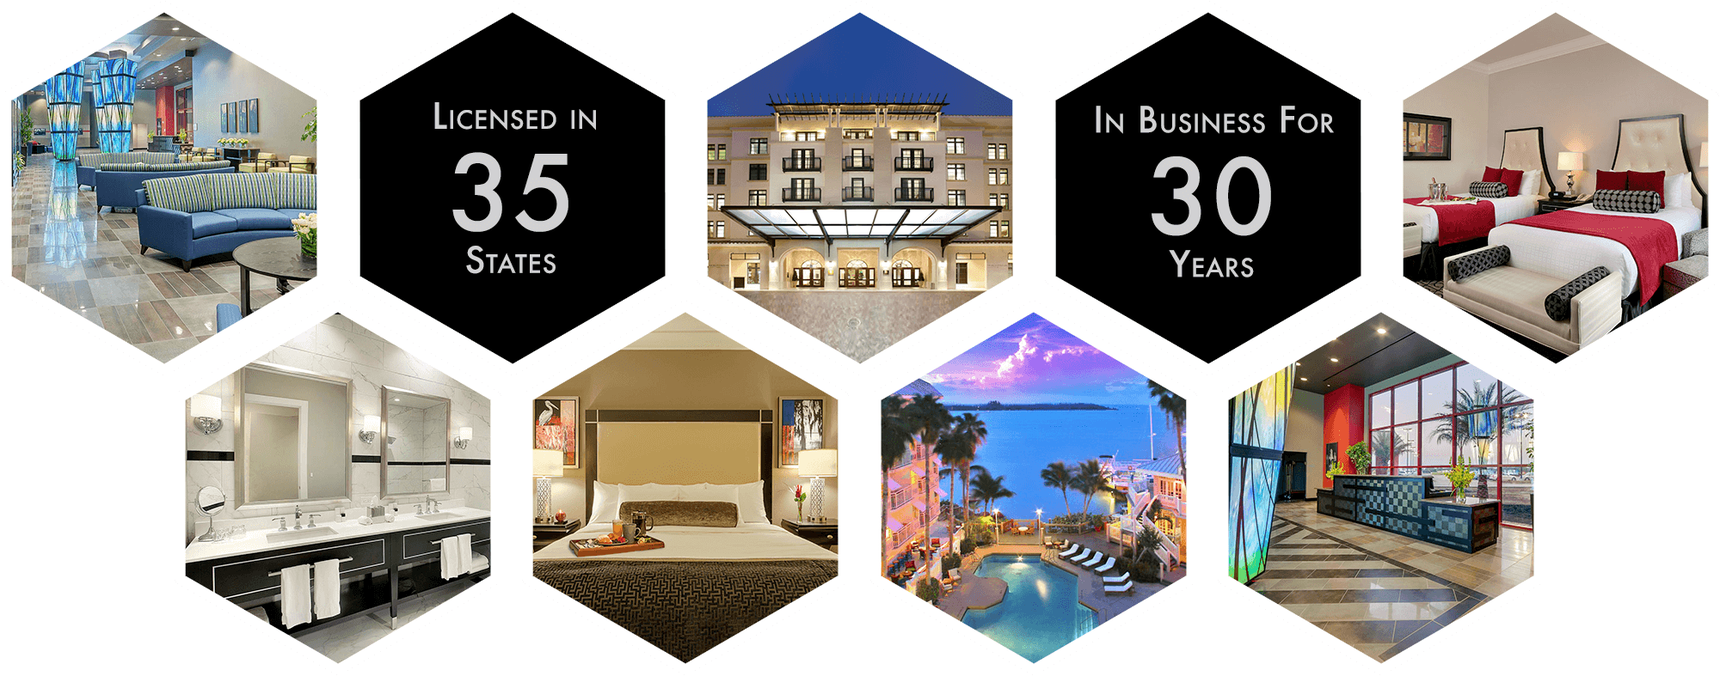
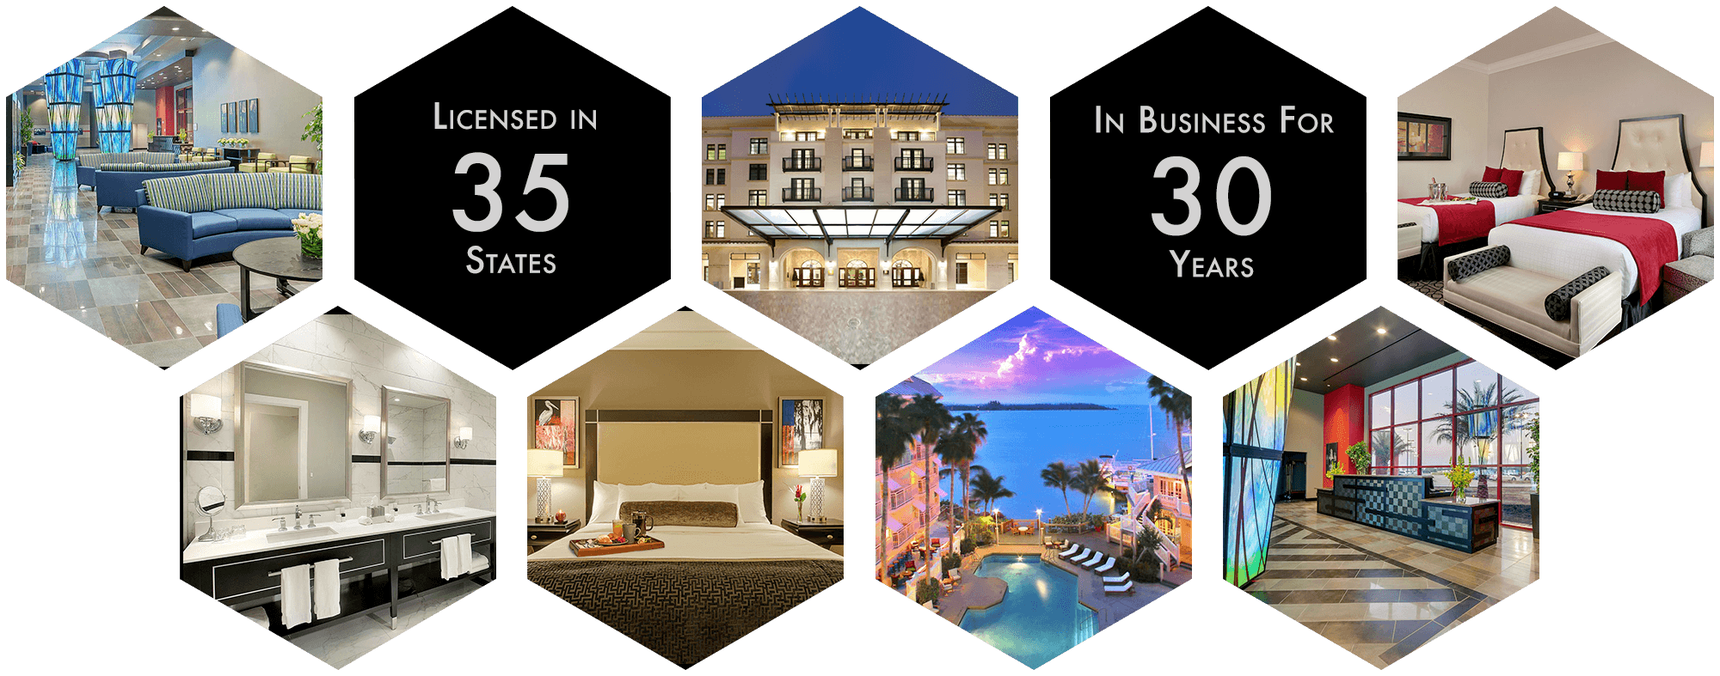
Removed borders from hero hex images.

diff --git a/style.css b/style.css
@@ -2,5 +2,5 @@
 Theme Name: Superiocity CVC
 Description: Basic starter theme.
 Text Domain: superiocity
-*/.button,.button:visited,.menu-open,input{-webkit-appearance:none}.button,.button:visited,.inner h1,.inner h2,body,li{font-family:helvetica,arial,sans-serif}#page,.button:active,body{position:relative}.map .scrolloff,.scrolloff{pointer-events:none}html{font-size:18px}body{margin:0;padding:0;height:100vh;color:#333;background-color:#000;overflow-x:hidden}a[href^="tel:"]{color:#333;text-decoration:none}p{line-height:1.3em}li{line-height:1.75em;margin-bottom:.5em}h1,h2,h3,h4,h5,h6{margin:0;line-height:1.2em}dd,h3{margin-bottom:1em}a,a:visited{color:#e27510;text-decoration:none}a:active,a:hover{color:#ff820e;text-decoration:underline}.button:hover,.home .services a,.logo-container a,.main-nav-wrapper a{text-decoration:none}dt{font-weight:700}.button,.button:visited{border:none;font-size:1em;color:#eee;-webkit-border-radius:0;background-color:#e27510;padding:.5em 1em;box-shadow:2px 2px 2px rgba(0,0,0,.3);border-radius:.15em;text-decoration:none;text-transform:lowercase}.button:hover{color:#fff;background-color:#ff820e}.button:active{box-shadow:0 0 2px rgba(0,0,0,.5)}.logo-container,.site-header{box-shadow:0 0 10px 8px rgba(0,0,0,.3)}.home .awards{overflow:hidden}.home .awards .button{font-size:1rem;position:relative;float:right;margin:2em 2em 0 0}input{-webkit-border-radius:0}.hex-bullets{padding:0;margin-left:0}.hex-bullets li{list-style-type:none;margin-left:0;padding-left:1.25em;background:url(images/hex-bullet-999.png) 0 .4em no-repeat;background-size:.75em}h3{padding:.25em .5em .25em 1.5em;background:url(images/hex-header-999.png) .25em .4em no-repeat;background-size:.85em;margin:0}.error404.inner .site-content{background-image:none}.error404.inner h1{text-align:center;margin-top:1em;font-variant:none;width:100%}.home h3,.inner h1,.inner h2,.menu-item{font-variant:small-caps}.error404.inner .page-content{text-align:center;margin:1em}.error404.inner .page-content img{height:auto}.inner h1,.inner h2{font-size:1.5rem;font-weight:400;display:inline-block;padding:.15em .5em .15em .75em;background:url(images/hex-header-999.png) .25em center no-repeat;background-size:.85em}#page,.site-header{display:-ms-flexbox}.inner h2{padding-left:1.3em}.inner .breadcrumb{padding:.5em .5em 0 .75em;margin-bottom:-.25em;text-align:left}#page{display:flex;-ms-flex-direction:column;flex-direction:column;min-height:100vh;height:100vh}#page .site-content{-ms-flex:1 0 auto;flex:1 0 auto;background-color:#fff}.inner article{max-width:1200px;margin:0 auto}img{max-width:100%;width:auto}.screen-reader-text{position:absolute;left:-1000px}.site-header{-ms-flex:0 0 auto;flex:0 0 auto;text-align:center;display:flex;-ms-flex-wrap:nowrap;flex-wrap:nowrap;-ms-flex-pack:justify;justify-content:space-between;-ms-flex-align:center;align-items:center;position:fixed;z-index:100;top:0;left:0;right:0;padding:0 .5em;background-color:rgba(0,0,0,.8);color:#ddd;border-bottom:solid 1px #999}.admin-bar .site-header{top:32px}.site-branding{white-space:nowrap}.site-title{margin:0 0 -8px}.logo-container{display:inline-block;position:fixed;top:7px;left:7px;background-color:#fff}.logo-container-inner{border:.1em solid #000;padding:.25em;margin:.2em}.logo{width:75px}.logo-sub{font-family:"Century Regular","Times New Roman",serif;color:#000;text-align:center;font-size:9px;text-transform:uppercase;margin-top:-2px;font-weight:700}.cta .phone a,.cta .phone a:hover,.home h3,.logo-phone,.main-navigation,.main-navigation a,.site-footer,.site-header .phone{font-family:helvetica,arial,sans-serif}.logo-phone{display:none;color:#000}.menu-open,.site-header .phone a[href^="tel:"]{color:#ccc}.site-header .phone{position:absolute;right:4em;top:50%;transform:translateY(-50%);font-size:.85em}.site-header .phone .tip{font-size:.7em}.home h3{font-size:1.5rem;font-weight:400;display:inline-block}.main-navigation{-ms-flex:1 0 auto;flex:1 0 auto;text-align:right}.menu-item{letter-spacing:.05em}#menu-item-51{display:none}.menu-open{font-size:1.5rem;border:none;background-color:transparent;padding:.25em 0 .25em .5em;margin:0}.menu-main-container{text-align:left}.main-nav-wrapper{position:fixed;top:0;right:0;background-color:rgba(0,0,0,.85);border-left:1px solid #444;color:#eee;height:100%;box-shadow:rgba(0,0,0,.5) -5px 0 10px;transform:translateX(110%);transition:transform .3s;min-height:100vh;text-align:center;overflow:auto;z-index:300}.home .intro .wrapper,.home .services a{box-shadow:20px 20px 30px 4px rgba(0,0,0,.5)}.main-nav-wrapper.open{transform:translateX(0)}.main-nav-wrapper .menu-close{position:absolute;right:1em}.entry-content,.hero-container,.home .services a,.site-footer{position:relative}.main-nav-wrapper ul{padding:0 1em}.main-nav-wrapper ul li{list-style:none;border-bottom:#444 1px solid;text-align:left}.article-container,.article-wrapper,.hero,.home .services a,.plaque,.plaque .year{text-align:center}.main-nav-wrapper ul li:last-child{border-bottom:none}.main-nav-wrapper a{display:block;color:#ccc;line-height:2.5em}.site-content{max-width:100vw;overflow:hidden}.hero{-webkit-filter:drop-shadow(0 0 10px #000);filter:drop-shadow(0 0 10px #000);margin:3.75em 0;height:200px;background:url(images/header-hex-685.png) center center no-repeat;background-size:contain}.inner .hero{background:url(images/header-hex-inner-685.png) center center no-repeat;background-size:contain;margin:1em auto 0;max-width:90%;height:150px}.hero-container-wrapper{border-bottom:solid 1px #999;background:url(images/brushed-metal.jpg)}.inner .hero-container-wrapper{border-bottom:solid 1px #666}.hero-container{background-image:radial-gradient(ellipse at 50% 50%,transparent,transparent 20%,rgba(0,0,0,.9));overflow:hidden}.home .testimonials{background:#462846;padding:0}.home .testimonials .wrapper{padding:2em .5em;background:radial-gradient(ellipse at 50% 50%,transparent,transparent 30%,rgba(0,0,0,.5)) no-repeat;color:#ccc;font-size:1.2em;text-align:center}.container-full{padding:2.5em 1em 3.5em}.awards-wrapper,.brands-wrapper{background:url(images/bg-hex.png) #fff}.container-full.awards,.container-full.brands{background-image:linear-gradient(150deg,#fff,rgba(255,255,255,.99) 20%,rgba(255,255,255,.97) 100%)}.home .intro,.home .services{color:#eee;text-shadow:1px 1px 10px #000;letter-spacing:.05em;line-height:1.5em}.home .intro{padding:0;background:url(images/outside-night.jpg) center center no-repeat fixed #333;background-size:cover}.home .intro .wrapper{background-color:rgba(0,0,0,.8);padding:10em 1em 2em;display:-ms-flexbox;display:flex;-ms-flex-pack:distribute;justify-content:space-around;-ms-flex-align:start;align-items:flex-start;-ms-flex-wrap:wrap;flex-wrap:wrap}.home .description{margin-top:2em}.home .logos{display:-ms-flexbox;display:flex;-ms-flex-pack:center;justify-content:center;-ms-flex-wrap:wrap;flex-wrap:wrap;-ms-flex-align:center;align-items:center}.home .logos img{margin:1em;width:100px;height:auto}.home .services a.animate{transform:scale(1);opacity:1}.home .services{background:url(images/inn-on-5th.jpg) center center no-repeat fixed #333;background-size:cover;padding:0}.home .services .overlay{padding:2.5em 2em 5em;background:linear-gradient(to bottom,rgba(0,0,0,.7),transparent 15%,transparent,transparent 85%,rgba(0,0,0,.5))}.home .services .links{display:-ms-flexbox;display:flex;-ms-flex-pack:center;justify-content:center;-ms-flex-wrap:wrap;flex-wrap:wrap;padding:0}.home .services a{display:block;list-style:none;background-color:#e27510;transform:scale(0);opacity:.5;transition:transform 1s,opacity 1s;margin:1.5em;text-shadow:1px 1px .1em rgba(0,0,0,.5);letter-spacing:.1em;font-weight:700;font-size:.75em;line-height:1.5em}.home .services a div{margin:.75em;width:170px;height:55px;font-size:1em;color:#fff;border:1px solid #ddd;padding:.5em}.home .services a span{display:inline-block;position:relative;top:50%;transform:translateY(-50%);margin:0 auto}.home .services a:hover{background-color:#ff820e}.plaque-container{display:-ms-flexbox;display:flex;-ms-flex-pack:center;justify-content:center;-ms-flex-wrap:wrap;flex-wrap:wrap}.plaque.animate{transform:scale(1)}.plaque{color:#000;transform:scale(0);transition:all 1s;background:url(images/plaque-bg.jpg) no-repeat #ccc;background-size:100% 100%;display:inline-block;padding:1.5em;width:200px;height:auto;text-shadow:1px 1px rgba(255,255,255,.7);margin:1em;box-shadow:2px 2px 2px rgba(0,0,0,.2)}.plaque .award,.plaque .year{display:block}.plaque span{margin-bottom:.5em}.plaque .year{font-weight:700}.plaque .source{display:block;font-size:.5em;font-style:italic}.inner .plaque{transform:none}.section-container{background-color:rgba(0,0,0,.7);padding:2em;color:#eee;box-shadow:2px 2px 4px rgba(0,0,0,.5);border-radius:.25em;display:inline-block}.article-wrapper p{margin-bottom:2em}.article-container{margin:2em auto 0;width:100%}.article-thumb{-webkit-filter:drop-shadow(2px 2px 2px rgba(0, 0, 0, .5));filter:drop-shadow(2px 2px 2px rgba(0, 0, 0, .5));margin-bottom:1em}.article-container p{text-align:left;font-size:1rem}.alignright{float:right;margin:0 0 1em}.alignleft{float:left;margin:0 0 0 1em}.site-footer{border-top:#666 solid 1px;font-size:.75em;line-height:1.5em;-ms-flex:0 0 auto;flex:0 0 auto;text-align:center;background-color:#000;color:#aaa;padding:50px .5em 3em;box-shadow:0 0 10px 8px rgba(0,0,0,.3)}.site-footer .button,.site-footer input[type=email]{height:2.1em;padding:.2em 1em;vertical-align:bottom;box-sizing:border-box}.site-footer .logo-container{display:none;position:absolute;left:50%;transform:translate(-50%,-50%)}.inner h1,.map{position:relative}.site-footer .logo{width:75px}.site-footer a{color:#aaa;text-decoration:underline}.site-footer .logo-container a{text-decoration:none}.site-footer .logo-sub{font-size:9px;line-height:1em}.site-footer input[type=email]{background-color:#ddd}.site-footer input[type=submit]{background-color:#999;font-size:.75rem}.site-footer .sep{display:none}.site-footer .second .sep{display:inline}.site-footer span{display:block}.site-footer .button{border-radius:0;background-color:#ccc;color:#000;border:0;font-variant:normal;font-size:.75rem}.site-footer input[type=email]{border:0;font-size:.75rem}.map,img.building{border-radius:.25em}.site-footer .footer-sections{display:-ms-flexbox;display:flex;-ms-flex-wrap:wrap;flex-wrap:wrap;line-height:1.75em;font-size:1.25em}.site-footer .footer-sections div{width:100%}.site-footer .first{margin-bottom:1em}.site-footer .second.sep{display:inline}img.building{height:auto;box-shadow:2px 2px 4px rgba(0,0,0,.3);width:100%}.photo-wrapper{text-align:center;margin-bottom:4em;margin-top:4em}.map{max-width:100%;margin-top:3em;box-shadow:2px 2px 2px rgba(0,0,0,.3);box-sizing:border-box}.inner .entry-header{text-align:left;background:#ddd;box-shadow:2px 2px 1px rgba(0,0,0,.2)}.contact,.cta,.general-info-wrapper,.headshots figure{text-align:center}.inner h1{display:block;color:#333;border-radius:0;text-shadow:-1px -1px 2px #eee;border-top:none;background-image:none}.inner h2{font-size:1.5rem}.inner .entry-content{margin:3em 1em}.inner .site-content{background:url(images/bg-hex.png) #fff;display:-ms-flexbox;display:flex;-ms-flex-direction:column;flex-direction:column}.inner .site-content-overlay{background-image:linear-gradient(130deg,#fff,rgba(255,255,255,.985) 50%,rgba(255,255,255,.97) 100%);-ms-flex-positive:1;flex-grow:1;padding-bottom:2em}.inner .cta{display:none}.cta,.cta .copy{display:block}.cta{background-color:#eee;position:absolute;box-shadow:1px 1px 4px 1px rgba(0,0,0,.2);transform:translate(-50%,-10%);left:50%;padding:5px;font-size:.85em;width:90%;max-width:1400px;z-index:10}.cta .content{border:2px solid #000;padding:1em}.cta .phone{margin-top:1em;border:none;padding:0}.cta .phone a,.cta .phone a:hover{font-weight:700;color:#000;text-decoration:none;cursor:default}.page-id-28 .page-photos{float:right;margin-left:2em}.page-id-28 .page-photos .nobreak{display:-ms-flexbox;display:flex}.page-id-28 .page-photos img{box-shadow:1px 1px 8px rgba(0,0,0,.5);margin:5px;height:auto}.headshots figcaption,.headshots img{box-shadow:2px 2px 4px rgba(0,0,0,.1)}.headshots{display:-ms-flexbox;display:flex;-ms-flex-wrap:wrap;flex-wrap:wrap;-ms-flex-pack:center;justify-content:center}.headshots figure{margin:1em 2em 0}.headshots img{border-radius:50%;margin:0;border:1px solid #ccc;padding:.5em;background-color:#fff;max-width:150px;height:auto}.headshots figcaption{box-sizing:border-box;background-color:#333;color:#ccc;display:inline-block;width:100%;text-align:center;border:1px solid #ccc;position:relative;top:-2.25em;padding:.25em}.headshots figcaption .name{font-size:.85em;margin-bottom:.25em}.headshots figcaption .position{font-size:.75em;font-style:italic}.general-info{text-align:left;display:inline-block;margin-top:3em;line-height:1.4em}.general-info p{margin:0}.general-info i{width:1.25em}.contact-inner{display:inline-block;text-align:left;margin:0 auto;max-width:100%;width:100%}.contact-inner form p{margin:0}.address div{display:inline-block;vertical-align:top}.map iframe{width:100%}.contact-inner .wpcf7{background-color:#f9f9f9;border:1px solid #ddd;box-shadow:2px 2px 2px rgba(0,0,0,.1);border-radius:.25em;padding:1em;box-sizing:border-box}div.wpcf7-validation-errors{background-color:rgba(255,0,0,.4);border:2px solid red;border-radius:.25em}.contact-inner .wpcf7 label{margin-top:1em;display:inline-block}.contact-inner .wpcf7 input[type=email],.contact-inner .wpcf7 input[type=text],.contact-inner .wpcf7 textarea{box-sizing:border-box;font-size:1.2em;line-height:1.5em;border:1px solid #ccc;outline:0;max-width:100%;width:100%}.contact-inner .wpcf7 textarea{height:200px}.contact-inner .wpcf7 input[type=submit]{margin-top:1em}.contact-inner.general-info{margin-top:3em}.contact-inner.general-info p{margin:0}.construction-list-wrapper ul.construction{padding:0;display:inline-block;margin:0 auto}.construction-list-wrapper ul.construction li{text-align:left;line-height:1.2em;margin-left:1.5em}.services-content{display:-ms-flexbox;display:flex;-ms-flex-wrap:wrap;flex-wrap:wrap}.services-content .image-wrapper{-ms-flex-order:2;order:2}.services-content img.services{height:auto}@media screen and (min-width:350px){.inner .hero{height:200px}}@media screen and (min-width:500px){.logo-container{left:50%;transform:translateX(-50%)}.logo{width:110px}.logo-sub{font-size:12px}.site-header{text-align:left}.site-header .phone{font-size:1em;left:7px}.phone .tip{display:none}.hero{margin:6.5em 1em;padding:0;height:450px}.inner .hero{height:275px}.cta{transform:translate(-50%,-30%);font-size:1em}.home .intro .overlay{padding:10em 1em 5em;background:linear-gradient(to bottom,rgba(0,0,0,.7),transparent 15%,transparent,transparent 85%,rgba(0,0,0,.5));overflow:hidden}.home .intro .wrapper{border:1px solid #999;padding:2em}.home .hex-bullets{-webkit-columns:2;-moz-columns:2;columns:2;-webkit-column-width:fit-content;-moz-column-width:fit-content;column-width:fit-content}.home .hex-bullets li{margin-right:1em;-webkit-column-break-inside:avoid}.home .logos img{width:150px}.inner article{margin:3em 5% 0}.site-footer .sep,.site-footer span{display:inline;margin:0 .25em}.site-footer .logo-container,.site-footer .second span{display:block}ul.construction{-webkit-column-count:2;-moz-column-count:2;column-count:2}}@media screen and (min-width:650px){.inner .hero{height:340px}.article-wrapper{text-align:center}.article-wrapper .content-container{background-color:rgba(0,0,0,.7);border-radius:.25em;box-shadow:2px 2px 4px rgba(0,0,0,.7);color:#eee;padding:2em;margin:2em auto;max-width:900px}.article-container{display:-ms-flexbox;display:flex}.article-container .thumbnail{-ms-flex-negative:0;flex-shrink:0;margin-right:2em}}@media screen and (min-width:700px){.services-content{display:block}.services-content .image-wrapper{display:inline-block;float:right;width:50%;max-width:650px}.services-content img.services{margin:0 0 1.5em 1.5em}}@media screen and (min-width:800px){.menu-open,.site-branding,.site-header .phone{display:none}.menu-item{font-family:helvetica,arial,sans-serif}.site-header{box-shadow:0 0 10px 8px rgba(0,0,0,.3);padding:.5em}.logo-phone{display:block;font-size:11px;letter-spacing:.1em;text-align:center}#menu-item-51{display:inline-block;width:175px}#menu-item-51 a{color:transparent;border-top:1px solid transparent;border-bottom:1px solid transparent}.main-nav-wrapper{transition:none;border-left:none;overflow:visible;position:relative;top:0;right:0;background-color:inherit;box-shadow:none;transform:translateX(0);height:auto;min-height:0}.main-navigation{font-size:1em;text-align:right}.main-navigation li{margin-bottom:0}.menu-item-has-children>a:after,.page_item_has_children>a:after{content:' ▾'}.main-nav-wrapper .menu-close{display:none}.main-nav-wrapper ul{white-space:nowrap;margin:0}.main-nav-wrapper ul li{border-bottom:none;display:inline-block;margin:0 .25em}.main-nav-wrapper ul li:last-child{border-right:none}.main-nav-wrapper a{text-decoration:none;display:block;white-space:nowrap;line-height:normal;padding:.3em;border-top:1px solid transparent;border-bottom:1px solid transparent;transition:border .25s}.main-nav-wrapper .current-menu-ancestor,.main-nav-wrapper .current-menu-item a,.main-nav-wrapper .current_page_item a,.main-nav-wrapper a:hover{border-top:1px solid #999;border-bottom:1px solid #999;border-radius:.25em}.main-nav-wrapper li.menu-item-has-children>a:hover,.main-nav-wrapper li.page_item_has_children>a:hover{text-decoration:none;border-top:1px solid transparent;border-bottom:1px solid transparent}.main-nav-wrapper li .sub-menu{-webkit-columns:2;-moz-columns:2;columns:2;transform:translateX(-30%)}.main-nav-wrapper li .children,.main-nav-wrapper li .sub-menu{transition:opacity .3s;position:absolute;top:-1000px;border:1px solid #999;background-color:rgba(0,0,0,.8);box-shadow:0 0 10px 8px rgba(0,0,0,.3);font-size:.8em;padding:0}.main-nav-wrapper li .children li,.main-nav-wrapper li .sub-menu li{display:block;border-right:none;padding:.25em;margin:0}.main-nav-wrapper li .children a,.main-nav-wrapper li .sub-menu a{border:none;padding:.25em 1em;border-top:1px solid transparent;border-bottom:1px solid transparent}.main-nav-wrapper li .children a:hover,.main-nav-wrapper li .sub-menu a:hover{border-top:1px solid #999;border-bottom:1px solid #999}.main-nav-wrapper li:hover .children,.main-nav-wrapper li:hover .sub-menu{top:auto;opacity:1;border-radius:.25em;z-index:200;padding:.5em}.hero{background-image:url(images/header-hex-1150.png)}.inner .hero{background:url(images/header-hex-inner-1150.png) center center no-repeat;background-size:contain;height:275px}.home .services a{background-color:#e27510;font-size:1em}.home .services a div{width:200px}.home .intro .overlay{padding:0}.home .intro .wrapper{background-color:rgba(0,0,0,.7);border-top-right-radius:75%;-ms-flex-wrap:wrap;flex-wrap:wrap;border:none;border-right:1px solid #333;width:50%;margin:0;padding:10em 5em 6em 2em;-ms-flex-pack:start;justify-content:flex-start}#intro-section{transition:all 1s;transform:translateX(-100%)}#intro-section.animate{transform:translateX(0)}.home .servicing{white-space:nowrap;font-size:1em}.home .logos img{margin:1.5em}.general-info-wrapper .general-info,.map{margin-top:0}.home h3{font-size:1.8em}.home .testimonials .wrapper{padding:2em}.general-info-wrapper{margin-top:0;position:absolute;top:1em;left:1em;background-color:rgba(255,255,255,.6);padding:1em;border-radius:.25em;font-size:.85em}.general-info-wrapper .general-info p{margin:0}.contact,.map{vertical-align:top;width:45%;display:inline-block}.contact-wrapper{display:none}.map{overflow:hidden;float:right}}@media screen and (min-width:1000px){.inner h1{font-size:1.7em}.inner .hero{max-width:970px;margin-left:auto;margin-right:auto}.site-footer{padding:0}.site-footer .footer-sections{margin:2em 1em;-ms-flex-wrap:nowrap;flex-wrap:nowrap;-ms-flex-pack:justify;justify-content:space-between;font-size:1em}.site-footer .footer-sections .first{margin-bottom:0;-ms-flex-item-align:center;align-self:center}.site-footer .footer-sections .second{-ms-flex-item-align:end;align-self:flex-end}.site-footer .footer-sections .third{-ms-flex-item-align:center;align-self:center;white-space:nowrap}.project .gallery{max-width:80%;margin:0 auto}}@media screen and (min-width:1200px){.home .servicing{font-size:1.3em}}@media screen and (min-width:1400px){body{font-size:20px}.logo{width:150px}.logo-sub{font-size:16px}.logo-phone{font-size:12px}#menu-item-51{width:225px}.home .logos img{width:240px}.home .services .links{padding:4em}.inner .hero{margin-top:2em}.inner .entry-header{text-align:center}.inner .breadcrumb,.inner h1{text-align:left;display:inline-block;width:1300px}.inner .breadcrumb{padding-top:.5em}.inner article{margin:2em auto}}@media screen and (min-width:1800px){.main-navigation{font-size:1.4em}.logo{width:200px}#menu-item-51{width:295px}.inner .hero{background-image:url(images/header-hex-inner-2000.png);max-width:1750px;height:350px}.inner .breadcrumb,.inner h1{width:85%}.inner article{max-width:75%}}@media screen and (min-width:2000px){.hero{background-image:url(images/header-hex-2000.png);height:600px}}
+*/.button,.button:visited,.menu-open,input{-webkit-appearance:none}.button,.button:visited,.inner h1,.inner h2,body,li{font-family:helvetica,arial,sans-serif}#page,.button:active,body{position:relative}.map .scrolloff,.scrolloff{pointer-events:none}html{font-size:18px}body{margin:0;padding:0;height:100vh;color:#333;background-color:#000;overflow-x:hidden}a[href^="tel:"]{color:#333;text-decoration:none}p{line-height:1.3em}li{line-height:1.75em;margin-bottom:.5em}h1,h2,h3,h4,h5,h6{margin:0;line-height:1.2em}dd,h3{margin-bottom:1em}a,a:visited{color:#e27510;text-decoration:none}a:active,a:hover{color:#ff820e;text-decoration:underline}.button:hover,.home .services a,.logo-container a,.main-nav-wrapper a{text-decoration:none}dt{font-weight:700}.button,.button:visited{border:none;font-size:1em;color:#eee;-webkit-border-radius:0;background-color:#e27510;padding:.5em 1em;box-shadow:2px 2px 2px rgba(0,0,0,.3);border-radius:.15em;text-decoration:none;text-transform:lowercase}.button:hover{color:#fff;background-color:#ff820e}.button:active{box-shadow:0 0 2px rgba(0,0,0,.5)}.logo-container,.site-header{box-shadow:0 0 10px 8px rgba(0,0,0,.3)}.home .awards{overflow:hidden}.home .awards .button{font-size:1rem;position:relative;float:right;margin:2em 2em 0 0}input{-webkit-border-radius:0}.hex-bullets{padding:0;margin-left:0}.hex-bullets li{list-style-type:none;margin-left:0;padding-left:1.25em;background:url(images/hex-bullet-999.png) 0 .4em no-repeat;background-size:.75em}h3{padding:.25em .5em .25em 1.5em;background:url(images/hex-header-999.png) .25em .4em no-repeat;background-size:.85em;margin:0}.error404.inner .site-content{background-image:none}.error404.inner h1{text-align:center;margin-top:1em;font-variant:none;width:100%}.home h3,.inner h1,.inner h2,.menu-item{font-variant:small-caps}.error404.inner .page-content{text-align:center;margin:1em}.error404.inner .page-content img{height:auto}.inner h1,.inner h2{font-size:1.5rem;font-weight:400;display:inline-block;padding:.15em .5em .15em .75em;background:url(images/hex-header-999.png) .25em center no-repeat;background-size:.85em}#page,.site-header{display:-ms-flexbox}.inner h2{padding-left:1.3em}.inner .breadcrumb{padding:.5em .5em 0 .75em;margin-bottom:-.25em;text-align:left}#page{display:flex;-ms-flex-direction:column;flex-direction:column;min-height:100vh;height:100vh}#page .site-content{-ms-flex:1 0 auto;flex:1 0 auto;background-color:#fff}.inner article{max-width:1200px;margin:0 auto}img{max-width:100%;width:auto}.screen-reader-text{position:absolute;left:-1000px}.site-header{-ms-flex:0 0 auto;flex:0 0 auto;text-align:center;display:flex;-ms-flex-wrap:nowrap;flex-wrap:nowrap;-ms-flex-pack:justify;justify-content:space-between;-ms-flex-align:center;align-items:center;position:fixed;z-index:100;top:0;left:0;right:0;padding:0 .5em;background-color:rgba(0,0,0,.8);color:#ddd;border-bottom:solid 1px #999}.admin-bar .site-header{top:32px}.site-branding{white-space:nowrap}.site-title{margin:0 0 -8px}.logo-container{display:inline-block;position:fixed;top:7px;left:7px;background-color:#fff}.logo-container-inner{border:.1em solid #000;padding:.25em;margin:.2em}.logo{width:75px}.logo-sub{font-family:"Century Regular","Times New Roman",serif;color:#000;text-align:center;font-size:9px;text-transform:uppercase;margin-top:-2px;font-weight:700}.cta .phone a,.cta .phone a:hover,.home h3,.logo-phone,.main-navigation,.main-navigation a,.site-footer,.site-header .phone{font-family:helvetica,arial,sans-serif}.logo-phone{display:none;color:#000}.menu-open,.site-header .phone a[href^="tel:"]{color:#ccc}.site-header .phone{position:absolute;right:4em;top:50%;transform:translateY(-50%);font-size:.85em}.site-header .phone .tip{font-size:.7em}.home h3{font-size:1.5rem;font-weight:400;display:inline-block}.main-navigation{-ms-flex:1 0 auto;flex:1 0 auto;text-align:right}.menu-item{letter-spacing:.05em}#menu-item-51{display:none}.menu-open{font-size:1.5rem;border:none;background-color:transparent;padding:.25em 0 .25em .5em;margin:0}.menu-main-container{text-align:left}.main-nav-wrapper{position:fixed;top:0;right:0;background-color:rgba(0,0,0,.85);border-left:1px solid #444;color:#eee;height:100%;box-shadow:rgba(0,0,0,.5) -5px 0 10px;transform:translateX(110%);transition:transform .3s;min-height:100vh;text-align:center;overflow:auto;z-index:300}.home .intro .wrapper,.home .services a{box-shadow:20px 20px 30px 4px rgba(0,0,0,.5)}.main-nav-wrapper.open{transform:translateX(0)}.main-nav-wrapper .menu-close{position:absolute;right:1em}.entry-content,.hero-container,.home .services a,.site-footer{position:relative}.main-nav-wrapper ul{padding:0 1em}.main-nav-wrapper ul li{list-style:none;border-bottom:#444 1px solid;text-align:left}.article-container,.article-wrapper,.hero,.home .services a,.plaque,.plaque .year{text-align:center}.main-nav-wrapper ul li:last-child{border-bottom:none}.main-nav-wrapper a{display:block;color:#ccc;line-height:2.5em}.site-content{max-width:100vw;overflow:hidden}.hero{-webkit-filter:drop-shadow(0 0 5px rgba(0, 0, 0, .7));filter:drop-shadow(0 0 5px rgba(0, 0, 0, .7));margin:3.75em 0;height:200px;background:url(images/header-hex-685.png) center center no-repeat;background-size:contain}.inner .hero{background:url(images/header-hex-inner-685.png) center center no-repeat;background-size:contain;margin:1em auto 0;max-width:90%;height:150px}.hero-container-wrapper{border-bottom:solid 1px #999;background:url(images/brushed-metal.jpg)}.inner .hero-container-wrapper{border-bottom:solid 1px #666}.hero-container{background-image:radial-gradient(ellipse at 50% 50%,transparent,transparent 20%,rgba(0,0,0,.9));overflow:hidden}.home .testimonials{background:#462846;padding:0}.home .testimonials .wrapper{padding:2em .5em;background:radial-gradient(ellipse at 50% 50%,transparent,transparent 30%,rgba(0,0,0,.5)) no-repeat;color:#ccc;font-size:1.2em;text-align:center}.container-full{padding:2.5em 1em 3.5em}.awards-wrapper,.brands-wrapper{background:url(images/bg-hex.png) #fff}.container-full.awards,.container-full.brands{background-image:linear-gradient(150deg,#fff,rgba(255,255,255,.99) 20%,rgba(255,255,255,.97) 100%)}.home .intro,.home .services{color:#eee;text-shadow:1px 1px 10px #000;letter-spacing:.05em;line-height:1.5em}.home .intro{padding:0;background:url(images/outside-night.jpg) center center no-repeat fixed #333;background-size:cover}.home .intro .wrapper{background-color:rgba(0,0,0,.8);padding:10em 1em 2em;display:-ms-flexbox;display:flex;-ms-flex-pack:distribute;justify-content:space-around;-ms-flex-align:start;align-items:flex-start;-ms-flex-wrap:wrap;flex-wrap:wrap}.home .description{margin-top:2em}.home .logos{display:-ms-flexbox;display:flex;-ms-flex-pack:center;justify-content:center;-ms-flex-wrap:wrap;flex-wrap:wrap;-ms-flex-align:center;align-items:center}.home .logos img{margin:1em;width:100px;height:auto}.home .services a.animate{transform:scale(1);opacity:1}.home .services{background:url(images/inn-on-5th.jpg) center center no-repeat fixed #333;background-size:cover;padding:0}.home .services .overlay{padding:2.5em 2em 5em;background:linear-gradient(to bottom,rgba(0,0,0,.7),transparent 15%,transparent,transparent 85%,rgba(0,0,0,.5))}.home .services .links{display:-ms-flexbox;display:flex;-ms-flex-pack:center;justify-content:center;-ms-flex-wrap:wrap;flex-wrap:wrap;padding:0}.home .services a{display:block;list-style:none;background-color:#e27510;transform:scale(0);opacity:.5;transition:transform 1s,opacity 1s;margin:1.5em;text-shadow:1px 1px .1em rgba(0,0,0,.5);letter-spacing:.1em;font-weight:700;font-size:.75em;line-height:1.5em}.home .services a div{margin:.75em;width:170px;height:55px;font-size:1em;color:#fff;border:1px solid #ddd;padding:.5em}.home .services a span{display:inline-block;position:relative;top:50%;transform:translateY(-50%);margin:0 auto}.home .services a:hover{background-color:#ff820e}.plaque-container{display:-ms-flexbox;display:flex;-ms-flex-pack:center;justify-content:center;-ms-flex-wrap:wrap;flex-wrap:wrap}.plaque.animate{transform:scale(1)}.plaque{color:#000;transform:scale(0);transition:all 1s;background:url(images/plaque-bg.jpg) no-repeat #ccc;background-size:100% 100%;display:inline-block;padding:1.5em;width:200px;height:auto;text-shadow:1px 1px rgba(255,255,255,.7);margin:1em;box-shadow:2px 2px 2px rgba(0,0,0,.2)}.plaque .award,.plaque .year{display:block}.plaque span{margin-bottom:.5em}.plaque .year{font-weight:700}.plaque .source{display:block;font-size:.5em;font-style:italic}.inner .plaque{transform:none}.section-container{background-color:rgba(0,0,0,.7);padding:2em;color:#eee;box-shadow:2px 2px 4px rgba(0,0,0,.5);border-radius:.25em;display:inline-block}.article-wrapper p{margin-bottom:2em}.article-container{margin:2em auto 0;width:100%}.article-thumb{-webkit-filter:drop-shadow(2px 2px 2px rgba(0, 0, 0, .5));filter:drop-shadow(2px 2px 2px rgba(0, 0, 0, .5));margin-bottom:1em}.article-container p{text-align:left;font-size:1rem}.alignright{float:right;margin:0 0 1em}.alignleft{float:left;margin:0 0 0 1em}.site-footer{border-top:#666 solid 1px;font-size:.75em;line-height:1.5em;-ms-flex:0 0 auto;flex:0 0 auto;text-align:center;background-color:#000;color:#aaa;padding:50px .5em 3em;box-shadow:0 0 10px 8px rgba(0,0,0,.3)}.site-footer .button,.site-footer input[type=email]{height:2.1em;padding:.2em 1em;vertical-align:bottom;box-sizing:border-box}.site-footer .logo-container{display:none;position:absolute;left:50%;transform:translate(-50%,-50%)}.inner h1,.map{position:relative}.site-footer .logo{width:75px}.site-footer a{color:#aaa;text-decoration:underline}.site-footer .logo-container a{text-decoration:none}.site-footer .logo-sub{font-size:9px;line-height:1em}.site-footer input[type=email]{background-color:#ddd}.site-footer input[type=submit]{background-color:#999;font-size:.75rem}.site-footer .sep{display:none}.site-footer .second .sep{display:inline}.site-footer span{display:block}.site-footer .button{border-radius:0;background-color:#ccc;color:#000;border:0;font-variant:normal;font-size:.75rem}.site-footer input[type=email]{border:0;font-size:.75rem}.map,img.building{border-radius:.25em}.site-footer .footer-sections{display:-ms-flexbox;display:flex;-ms-flex-wrap:wrap;flex-wrap:wrap;line-height:1.75em;font-size:1.25em}.site-footer .footer-sections div{width:100%}.site-footer .first{margin-bottom:1em}.site-footer .second.sep{display:inline}img.building{height:auto;box-shadow:2px 2px 4px rgba(0,0,0,.3);width:100%}.photo-wrapper{text-align:center;margin-bottom:4em;margin-top:4em}.map{max-width:100%;margin-top:3em;box-shadow:2px 2px 2px rgba(0,0,0,.3);box-sizing:border-box}.inner .entry-header{text-align:left;background:#ddd;box-shadow:2px 2px 1px rgba(0,0,0,.2)}.contact,.cta,.general-info-wrapper,.headshots figure{text-align:center}.inner h1{display:block;color:#333;border-radius:0;text-shadow:-1px -1px 2px #eee;border-top:none;background-image:none}.inner h2{font-size:1.5rem}.inner .entry-content{margin:3em 1em}.inner .site-content{background:url(images/bg-hex.png) #fff;display:-ms-flexbox;display:flex;-ms-flex-direction:column;flex-direction:column}.inner .site-content-overlay{background-image:linear-gradient(130deg,#fff,rgba(255,255,255,.985) 50%,rgba(255,255,255,.97) 100%);-ms-flex-positive:1;flex-grow:1;padding-bottom:2em}.inner .cta{display:none}.cta,.cta .copy{display:block}.cta{background-color:#eee;position:absolute;box-shadow:1px 1px 4px 1px rgba(0,0,0,.2);transform:translate(-50%,-10%);left:50%;padding:5px;font-size:.85em;width:90%;max-width:1400px;z-index:10}.cta .content{border:2px solid #000;padding:1em}.cta .phone{margin-top:1em;border:none;padding:0}.cta .phone a,.cta .phone a:hover{font-weight:700;color:#000;text-decoration:none;cursor:default}.page-id-28 .page-photos{float:right;margin-left:2em}.page-id-28 .page-photos .nobreak{display:-ms-flexbox;display:flex}.page-id-28 .page-photos img{box-shadow:1px 1px 8px rgba(0,0,0,.5);margin:5px;height:auto}.headshots figcaption,.headshots img{box-shadow:2px 2px 4px rgba(0,0,0,.1)}.headshots{display:-ms-flexbox;display:flex;-ms-flex-wrap:wrap;flex-wrap:wrap;-ms-flex-pack:center;justify-content:center}.headshots figure{margin:1em 2em 0}.headshots img{border-radius:50%;margin:0;border:1px solid #ccc;padding:.5em;background-color:#fff;max-width:150px;height:auto}.headshots figcaption{box-sizing:border-box;background-color:#333;color:#ccc;display:inline-block;width:100%;text-align:center;border:1px solid #ccc;position:relative;top:-2.25em;padding:.25em}.headshots figcaption .name{font-size:.85em;margin-bottom:.25em}.headshots figcaption .position{font-size:.75em;font-style:italic}.general-info{text-align:left;display:inline-block;margin-top:3em;line-height:1.4em}.general-info p{margin:0}.general-info i{width:1.25em}.contact-inner{display:inline-block;text-align:left;margin:0 auto;max-width:100%;width:100%}.contact-inner form p{margin:0}.address div{display:inline-block;vertical-align:top}.map iframe{width:100%}.contact-inner .wpcf7{background-color:#f9f9f9;border:1px solid #ddd;box-shadow:2px 2px 2px rgba(0,0,0,.1);border-radius:.25em;padding:1em;box-sizing:border-box}div.wpcf7-validation-errors{background-color:rgba(255,0,0,.4);border:2px solid red;border-radius:.25em}.contact-inner .wpcf7 label{margin-top:1em;display:inline-block}.contact-inner .wpcf7 input[type=email],.contact-inner .wpcf7 input[type=text],.contact-inner .wpcf7 textarea{box-sizing:border-box;font-size:1.2em;line-height:1.5em;border:1px solid #ccc;outline:0;max-width:100%;width:100%}.contact-inner .wpcf7 textarea{height:200px}.contact-inner .wpcf7 input[type=submit]{margin-top:1em}.contact-inner.general-info{margin-top:3em}.contact-inner.general-info p{margin:0}.construction-list-wrapper ul.construction{padding:0;display:inline-block;margin:0 auto}.construction-list-wrapper ul.construction li{text-align:left;line-height:1.2em;margin-left:1.5em}.services-content{display:-ms-flexbox;display:flex;-ms-flex-wrap:wrap;flex-wrap:wrap}.services-content .image-wrapper{-ms-flex-order:2;order:2}.services-content img.services{height:auto}@media screen and (min-width:350px){.inner .hero{height:200px}}@media screen and (min-width:500px){.logo-container{left:50%;transform:translateX(-50%)}.logo{width:110px}.logo-sub{font-size:12px}.site-header{text-align:left}.site-header .phone{font-size:1em;left:7px}.phone .tip{display:none}.hero{margin:6.5em 1em;padding:0;height:450px}.inner .hero{height:275px}.cta{transform:translate(-50%,-30%);font-size:1em}.home .intro .overlay{padding:10em 1em 5em;background:linear-gradient(to bottom,rgba(0,0,0,.7),transparent 15%,transparent,transparent 85%,rgba(0,0,0,.5));overflow:hidden}.home .intro .wrapper{border:1px solid #999;padding:2em}.home .hex-bullets{-webkit-columns:2;-moz-columns:2;columns:2;-webkit-column-width:fit-content;-moz-column-width:fit-content;column-width:fit-content}.home .hex-bullets li{margin-right:1em;-webkit-column-break-inside:avoid}.home .logos img{width:150px}.inner article{margin:3em 5% 0}.site-footer .sep,.site-footer span{display:inline;margin:0 .25em}.site-footer .logo-container,.site-footer .second span{display:block}ul.construction{-webkit-column-count:2;-moz-column-count:2;column-count:2}}@media screen and (min-width:650px){.inner .hero{height:340px}.article-wrapper{text-align:center}.article-wrapper .content-container{background-color:rgba(0,0,0,.7);border-radius:.25em;box-shadow:2px 2px 4px rgba(0,0,0,.7);color:#eee;padding:2em;margin:2em auto;max-width:900px}.article-container{display:-ms-flexbox;display:flex}.article-container .thumbnail{-ms-flex-negative:0;flex-shrink:0;margin-right:2em}}@media screen and (min-width:700px){.services-content{display:block}.services-content .image-wrapper{display:inline-block;float:right;width:50%;max-width:650px}.services-content img.services{margin:0 0 1.5em 1.5em}}@media screen and (min-width:800px){.menu-open,.site-branding,.site-header .phone{display:none}.menu-item{font-family:helvetica,arial,sans-serif}.site-header{box-shadow:0 0 10px 8px rgba(0,0,0,.3);padding:.5em}.logo-phone{display:block;font-size:11px;letter-spacing:.1em;text-align:center}#menu-item-51{display:inline-block;width:175px}#menu-item-51 a{color:transparent;border-top:1px solid transparent;border-bottom:1px solid transparent}.main-nav-wrapper{transition:none;border-left:none;overflow:visible;position:relative;top:0;right:0;background-color:inherit;box-shadow:none;transform:translateX(0);height:auto;min-height:0}.main-navigation{font-size:1em;text-align:right}.main-navigation li{margin-bottom:0}.menu-item-has-children>a:after,.page_item_has_children>a:after{content:' ▾'}.main-nav-wrapper .menu-close{display:none}.main-nav-wrapper ul{white-space:nowrap;margin:0}.main-nav-wrapper ul li{border-bottom:none;display:inline-block;margin:0 .25em}.main-nav-wrapper ul li:last-child{border-right:none}.main-nav-wrapper a{text-decoration:none;display:block;white-space:nowrap;line-height:normal;padding:.3em;border-top:1px solid transparent;border-bottom:1px solid transparent;transition:border .25s}.main-nav-wrapper .current-menu-ancestor,.main-nav-wrapper .current-menu-item a,.main-nav-wrapper .current_page_item a,.main-nav-wrapper a:hover{border-top:1px solid #999;border-bottom:1px solid #999;border-radius:.25em}.main-nav-wrapper li.menu-item-has-children>a:hover,.main-nav-wrapper li.page_item_has_children>a:hover{text-decoration:none;border-top:1px solid transparent;border-bottom:1px solid transparent}.main-nav-wrapper li .sub-menu{-webkit-columns:2;-moz-columns:2;columns:2;transform:translateX(-30%)}.main-nav-wrapper li .children,.main-nav-wrapper li .sub-menu{transition:opacity .3s;position:absolute;top:-1000px;border:1px solid #999;background-color:rgba(0,0,0,.8);box-shadow:0 0 10px 8px rgba(0,0,0,.3);font-size:.8em;padding:0}.main-nav-wrapper li .children li,.main-nav-wrapper li .sub-menu li{display:block;border-right:none;padding:.25em;margin:0}.main-nav-wrapper li .children a,.main-nav-wrapper li .sub-menu a{border:none;padding:.25em 1em;border-top:1px solid transparent;border-bottom:1px solid transparent}.main-nav-wrapper li .children a:hover,.main-nav-wrapper li .sub-menu a:hover{border-top:1px solid #999;border-bottom:1px solid #999}.main-nav-wrapper li:hover .children,.main-nav-wrapper li:hover .sub-menu{top:auto;opacity:1;border-radius:.25em;z-index:200;padding:.5em}.hero{background-image:url(images/header-hex-1150.png)}.inner .hero{background:url(images/header-hex-inner-1150.png) center center no-repeat;background-size:contain;height:275px}.home .services a{background-color:#e27510;font-size:1em}.home .services a div{width:200px}.home .intro .overlay{padding:0}.home .intro .wrapper{background-color:rgba(0,0,0,.7);border-top-right-radius:75%;-ms-flex-wrap:wrap;flex-wrap:wrap;border:none;border-right:1px solid #333;width:50%;margin:0;padding:10em 5em 6em 2em;-ms-flex-pack:start;justify-content:flex-start}#intro-section{transition:all 1s;transform:translateX(-100%)}#intro-section.animate{transform:translateX(0)}.home .servicing{white-space:nowrap;font-size:1em}.home .logos img{margin:1.5em}.general-info-wrapper .general-info,.map{margin-top:0}.home h3{font-size:1.8em}.home .testimonials .wrapper{padding:2em}.general-info-wrapper{margin-top:0;position:absolute;top:1em;left:1em;background-color:rgba(255,255,255,.6);padding:1em;border-radius:.25em;font-size:.85em}.general-info-wrapper .general-info p{margin:0}.contact,.map{vertical-align:top;width:45%;display:inline-block}.contact-wrapper{display:none}.map{overflow:hidden;float:right}}@media screen and (min-width:1000px){.inner h1{font-size:1.7em}.inner .hero{max-width:970px;margin-left:auto;margin-right:auto}.site-footer{padding:0}.site-footer .footer-sections{margin:2em 1em;-ms-flex-wrap:nowrap;flex-wrap:nowrap;-ms-flex-pack:justify;justify-content:space-between;font-size:1em}.site-footer .footer-sections .first{margin-bottom:0;-ms-flex-item-align:center;align-self:center}.site-footer .footer-sections .second{-ms-flex-item-align:end;align-self:flex-end}.site-footer .footer-sections .third{-ms-flex-item-align:center;align-self:center;white-space:nowrap}.project .gallery{max-width:80%;margin:0 auto}}@media screen and (min-width:1200px){.home .servicing{font-size:1.3em}}@media screen and (min-width:1400px){body{font-size:20px}.logo{width:150px}.logo-sub{font-size:16px}.logo-phone{font-size:12px}#menu-item-51{width:225px}.home .logos img{width:240px}.home .services .links{padding:4em}.inner .hero{margin-top:2em}.inner .entry-header{text-align:center}.inner .breadcrumb,.inner h1{text-align:left;display:inline-block;width:1300px}.inner .breadcrumb{padding-top:.5em}.inner article{margin:2em auto}}@media screen and (min-width:1800px){.main-navigation{font-size:1.4em}.logo{width:200px}#menu-item-51{width:295px}.inner .hero{background-image:url(images/header-hex-inner-2000.png);max-width:1750px;height:350px}.inner .breadcrumb,.inner h1{width:85%}.inner article{max-width:75%}}@media screen and (min-width:2000px){.hero{background-image:url(images/header-hex-2000.png);height:600px}}
 /*# sourceMappingURL=style.css.map */

diff --git a/src/sass/style.scss b/src/sass/style.scss
@@ -393,7 +393,7 @@ img {
 
 .hero {
   text-align: center;
-  filter: drop-shadow(0 0 10px #000);
+  filter: drop-shadow(0 0 5px rgba(0,0,0, .7));
   background-size: cover;
   margin: 3.75em 0;
   height: 200px;
